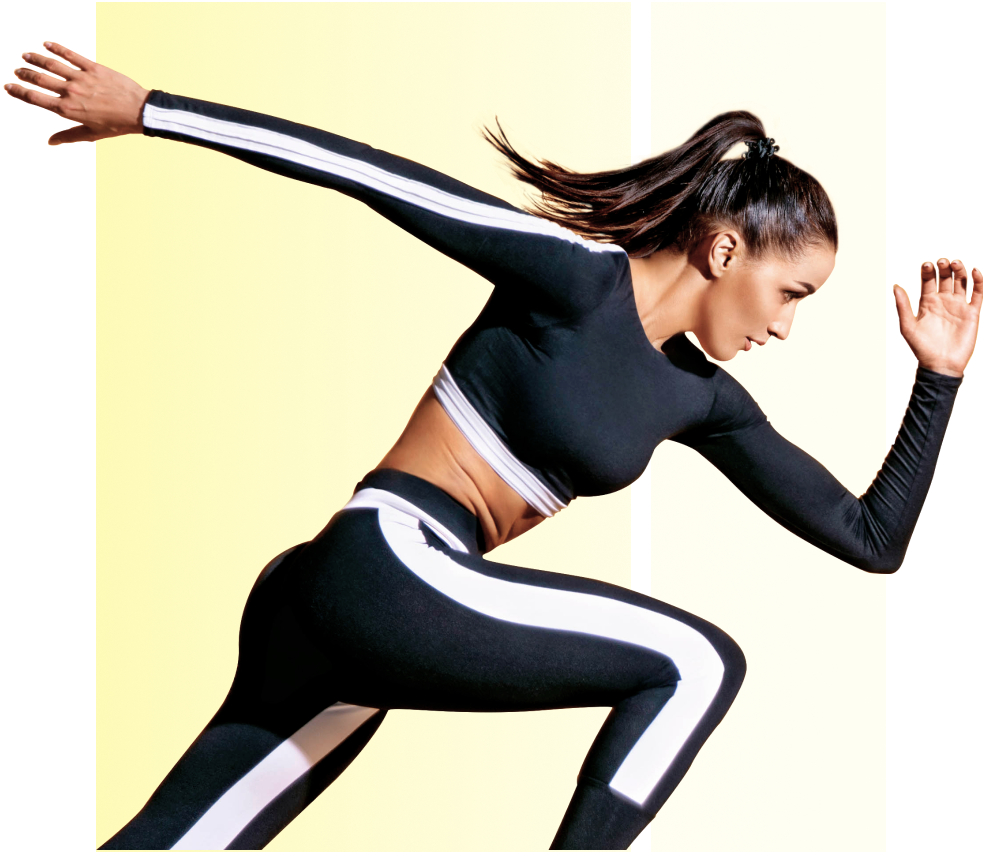
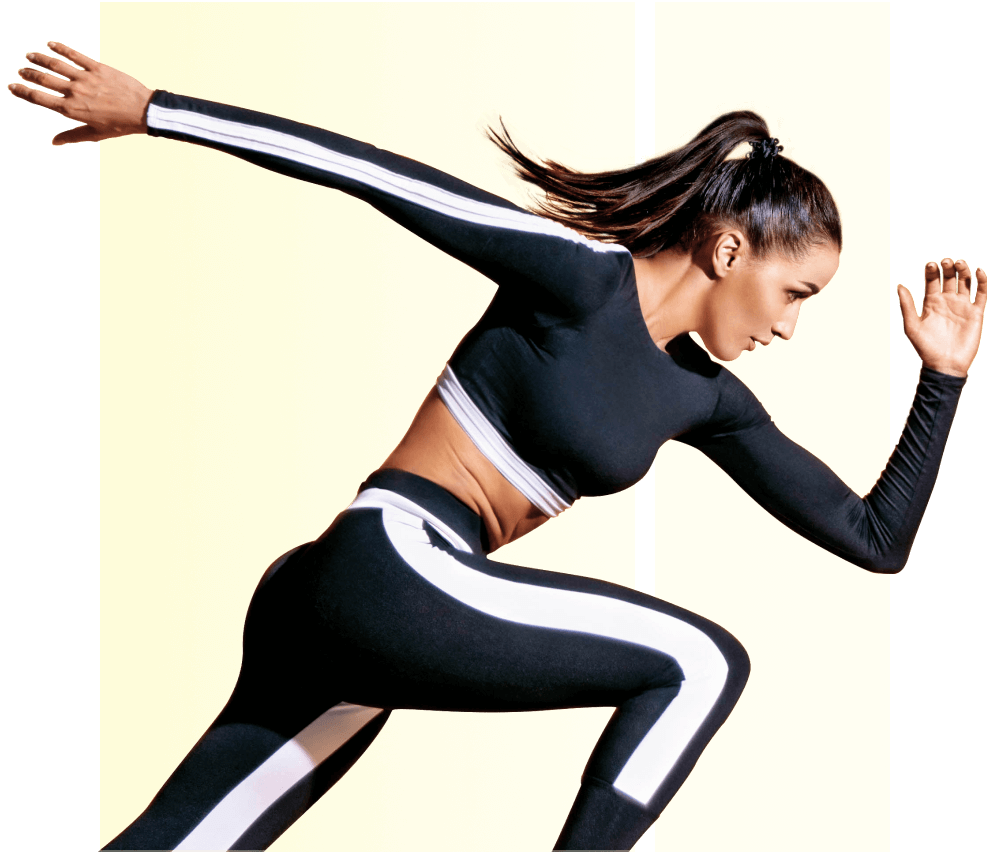
add vw

diff --git a/styles/main.css b/styles/main.css
@@ -104,6 +104,7 @@ body {
   margin-bottom: 3vw;
 }
 .banner-link {
+  font-size: 0.83vw;
   text-transform: uppercase;
   font-weight: bold;
   letter-spacing: 0.03em;
@@ -131,38 +132,16 @@ body {
   margin-top: 10.57vw;
 }
 .banner-box {
-  display: flex;
-  max-width: 41vw;
+  background-image: url(../images/Image\ 1\ screen.png);
+  background-size: contain;
+  background-repeat: no-repeat;
+  max-width: 51.875vw;
   width: 100%;
-  gap: 0.7vw;
-  position: absolute;
-  top: -11.6vw;
-  right: 15.9vw;
   height: 44.2vw;
-  z-index: -1;
-}
-.box-gradient-left {
-  background: linear-gradient(
-    90deg,
-    #fbf138 0%,
-    rgba(253, 249, 182, 0.45) 145.23%
-  );
-  opacity: 0.2;
-  flex-basis: 70%;
-}
-.box-gradient-right {
-  background: linear-gradient(
-    90deg,
-    #fdf9b6 0%,
-    rgba(253, 249, 182, 0.7) 166.81%
-  );
-  opacity: 0.2;
-  flex-basis: 30%;
-}
-.box-image {
   position: absolute;
-  bottom: 0.1vw;
-  right: -5vw;
+  top: -11.7vw;
+  right: 10.2vw;
+  z-index: -1;
 }
 
 /*---------EVENTS---------*/
@@ -170,12 +149,12 @@ body {
   margin-top: 8.59vw;
 }
 .events-title h2 {
-  font-size: 40px;
+  font-size: 2.083vw;
 }
 .events-flex {
   display: flex;
   justify-content: space-between;
-  margin-top: 42px;
+  margin-top: 2.1875vw;
   width: 100%;
   height: 31.3vw;
 }
@@ -216,29 +195,30 @@ body {
 }
 .date {
   font-weight: bold;
-  font-size: 18px;
-  margin-top: 34px;
-  margin-left: 31px;
+  font-size: 0.94vw;
+  margin-top: 1.82vw;
+  margin-left: 1.56vw;
 }
 .events h3 {
   font-weight: bold;
-  font-size: 28px;
+  font-size: 1.46vw;
   line-height: 125%;
-  margin-left: 30px;
-  margin-top: 24px;
+  margin-left: 1.56vw;
+  margin-top: 1.25vw;
 }
 .events .button {
   display: block;
   text-decoration: none;
   font-weight: bold;
+  font-size: 0.83vw;
   letter-spacing: 0.03em;
   text-transform: uppercase;
   color: #fbf138;
   background: #2b3541;
-  margin-left: 30px;
-  margin-top: 40px;
-  padding: 21px 37px;
-  max-width: 148px;
+  margin-left: 1.56vw;
+  margin-top: 2.08vw;
+  padding: 1.09vw 1.93vw;
+  max-width: 7.71vw;
   opacity: 0;
   transition: 0.5s;
 }
@@ -249,12 +229,12 @@ body {
   position: absolute;
   bottom: 0;
   right: 0;
-  font-size: 18px;
+  font-size: 0.94vw;
   text-align: center;
   background: #fbf138;
   margin-bottom: 0;
-  padding: 15px 18px;
-  transition: 1s;
+  padding: 0.78vw 0.94vw;
+  transition: 0.5s;
 }
 .event-gradient:hover .type {
   opacity: 0;
@@ -263,7 +243,7 @@ body {
 /*-----------TIMETABLE---------*/
 
 .timetable {
-  margin-top: 126px;
+  margin-top: 6.56vw;
 }
 .timetable-title {
   display: flex;
@@ -271,85 +251,80 @@ body {
 }
 .text-title {
   font-weight: bold;
-  font-size: 40px;
+  font-size: 2.08vw;
   line-height: 125%;
 }
 .date-title {
-  margin-right: 1px;
-  margin-top: 48px;
+  margin-top: 2.5vw;
   font-weight: bold;
-  font-size: 28px;
+  font-size: 1.46vw;
 }
 .grid {
-  margin-top: 5px;
+  margin-top: 0.42vw;
   display: grid;
   grid-template-columns: repeat(3, 1fr);
-  grid-template-rows: 250px 39px 73px 280px;
-  gap: 20px;
+  grid-template-rows: 13vw 2.03vw 3.8vw 14.7vw;
+  gap: 1.04vw;
 }
 .grid-item {
-  border: 1px solid rgb(43 52 64 / 50%);
+  border: 0.05vw solid rgb(43 52 64 / 50%);
   display: flex;
   flex-direction: column;
   justify-content: space-between;
-  padding: 10px;
+  padding: 0.5vw;
   cursor: pointer;
 }
 .grid-item:hover {
   background: rgba(243, 243, 243, 0.5);
-  box-shadow: 0px 4px 30px rgba(43, 53, 65, 0.2);
+  box-shadow: 0vw 0.2vw 1.56vw rgba(43, 53, 65, 0.2);
   border: none;
 }
 
 .date-item {
-  margin-top: 13px;
-  margin-left: 196px;
-  font-size: 18px;
+  margin-top: 0.68vw;
+  margin-left: 10.2vw;
+  font-size: 0.94vw;
   color: #010101;
   opacity: 0.7;
 }
 
 .grid-item:hover .training {
-  margin-top: -80px;
+  margin-top: -4.17vw;
 }
 .grid-item img {
-  margin-left: 21px;
+  margin-left: 1.09vw;
 }
 .grid-item h3 {
   font-weight: bold;
-  font-size: 18px;
-  margin-top: 42px;
-  margin-left: 21px;
+  font-size: 0.94vw;
+  margin-top: 2.1vw;
+  margin-left: 1.09vw;
 }
 .description {
   opacity: 0;
-  font-size: 18px;
+  font-size: 0.94vw;
   line-height: 150%;
-  margin-left: 21px;
-  margin-top: 3px;
+  margin-left: 1.09vw;
 }
 .grid-item:hover .description {
   opacity: 1;
 }
 .funct-training img {
-  width: 65px;
-  height: 65px;
-  margin-top: 38px;
+  width: 3.34vw;
+  margin-top: 1.98vw;
 }
 
 .body-sculpt img {
-  width: 42px;
-  height: 85px;
-  margin-top: 172px;
+  width: 2.19vw;
+  margin-top: 8.96vw;
 }
 
 .dumbbell img {
-  width: 91px;
-  height: 50px;
-  margin-top: 114px;
+  width: 4.74vw;
+  margin-top: 5.94vw;
 }
 .dumbbell h3 {
-  margin-left: 28px;
+  margin-left: 1.46vw;
 }
 .jump {
   background: linear-gradient(
@@ -357,7 +332,7 @@ body {
     rgba(251, 241, 56, 0.7) 0%,
     rgba(253, 249, 182, 0.45) 100%
   );
-  box-shadow: 0px 13px 30px rgba(186, 180, 69, 0.2);
+  box-shadow: 0vw 0.68vw 1.56vw rgba(186, 180, 69, 0.2);
   border: none;
 }
 .jump:hover {
@@ -366,30 +341,30 @@ body {
     rgba(251, 241, 56, 0.7) 0%,
     rgba(253, 249, 182, 0.315) 100%
   );
-  box-shadow: 0px 13px 30px rgba(186, 180, 69, 0.2);
+  box-shadow: 0vw 0.68vw 1.56vw rgba(186, 180, 69, 0.2);
   border: none;
 }
 
 .jump img {
-  width: 67px;
-  height: 106px;
-  margin-top: 81px;
+  width: 3.45vw;
+  margin-top: 4.22vw;
+}
+.jump h3 {
+  margin-top: 2.29vw;
 }
 .active {
-  font-size: 18px;
+  font-size: 0.94vw;
   line-height: 150%;
-  margin-left: 21px;
-  margin-top: 3px;
+  margin-left: 1.09vw;
+  margin-top: 0.16vw;
 }
 .heart img {
-  width: 65px;
-  height: 61px;
-  margin-top: 74px;
+  width: 3.39vw;
+  margin-top: 3.85vw;
 }
 .weight img {
-  width: 58px;
-  height: 66px;
-  margin-top: 162px;
+  width: 3.02vw;
+  margin-top: 8.44vw;
 }
 
 .grid-item:nth-child(1) {
@@ -418,13 +393,13 @@ body {
 }
 /*----------DISTRIBUTION-------*/
 .distribution {
-  margin-top: 167px;
+  margin-top: 8.33vw;
   background-color: #f3f3f3;
 }
 .distr-cover {
   max-width: 640px;
   margin: 0 auto;
-  padding: 37px 0 85px 0;
+  padding: 40px 0 85px 0;
 }
 .distr-title {
   font-size: 34px;
@@ -449,21 +424,26 @@ body {
 }
 .distr-form {
   display: flex;
-  gap: 20px;
   margin-bottom: 15px;
 }
 .email {
-  padding: 23px 115px 22px 20px;
+  padding: 22px 130px 22px 20px;
   font-size: 18px;
   border: none;
-  margin: 0 auto;
+  margin-left: 20px;
 }
+.email::placeholder{
+  opacity: 0.3;
+}
+
 .distr-btn {
-  padding: 20px 47px 20px 45px;
+  margin-left: 20px;
+  padding: 22px 42px 20px 45px;
   background-color: #fbf138;
   font-weight: bold;
   font-size: 16px;
   line-height: 150%;
+  letter-spacing: 0.03em;
   text-transform: uppercase;
   color: #2b3541;
   text-decoration: none;
@@ -500,7 +480,7 @@ body {
   transition: 0.5s;
   opacity: 1;
   left: 9px;
-  top: calc(50% - 12px);
+  top: -5px;
   background-image: url(../images/mdi_check_box.svg);
   background-repeat: no-repeat;
   background-size: cover;
@@ -511,23 +491,13 @@ body {
   position: absolute;
   width: 16px;
   height: 16px;
-  left: 11px;
-  top: calc(50% - 10px);
+  left: 10px;
+  top: -3px;
   background-color: transparent;
   border-radius: 2px;
   border: 2px solid #5d575f;
 }
-.checkbox:not(:checked) + label::after {
-  content: "";
-  position: absolute;
-  width: 12px;
-  height: 12px;
-  transition: 0.5s;
-  opacity: 0;
-  left: 15px;
-  top: calc(50% - 6px);
-  background-color: #25a95c;
-}
+
 .radio:checked + label::before {
   border-radius: 100%;
 }

diff --git a/index.html b/index.html
@@ -86,14 +86,9 @@
           </p>
           <p><a href="#" class="banner-link">Узнать подробнее</a></p>
           <a href="#timetable" class="arrow"></a>
-          <div class="banner-box">
-            <div class="box-gradient-left"></div>
-            <div class="box-gradient-right"></div>
-            <img class="box-image" src="images/girl.png" alt="girl" />
-          </div>
+          <div class="banner-box"></div>
         </div>
       </div>
-      
 
       <!---------EVENTS--------->
       <section>
